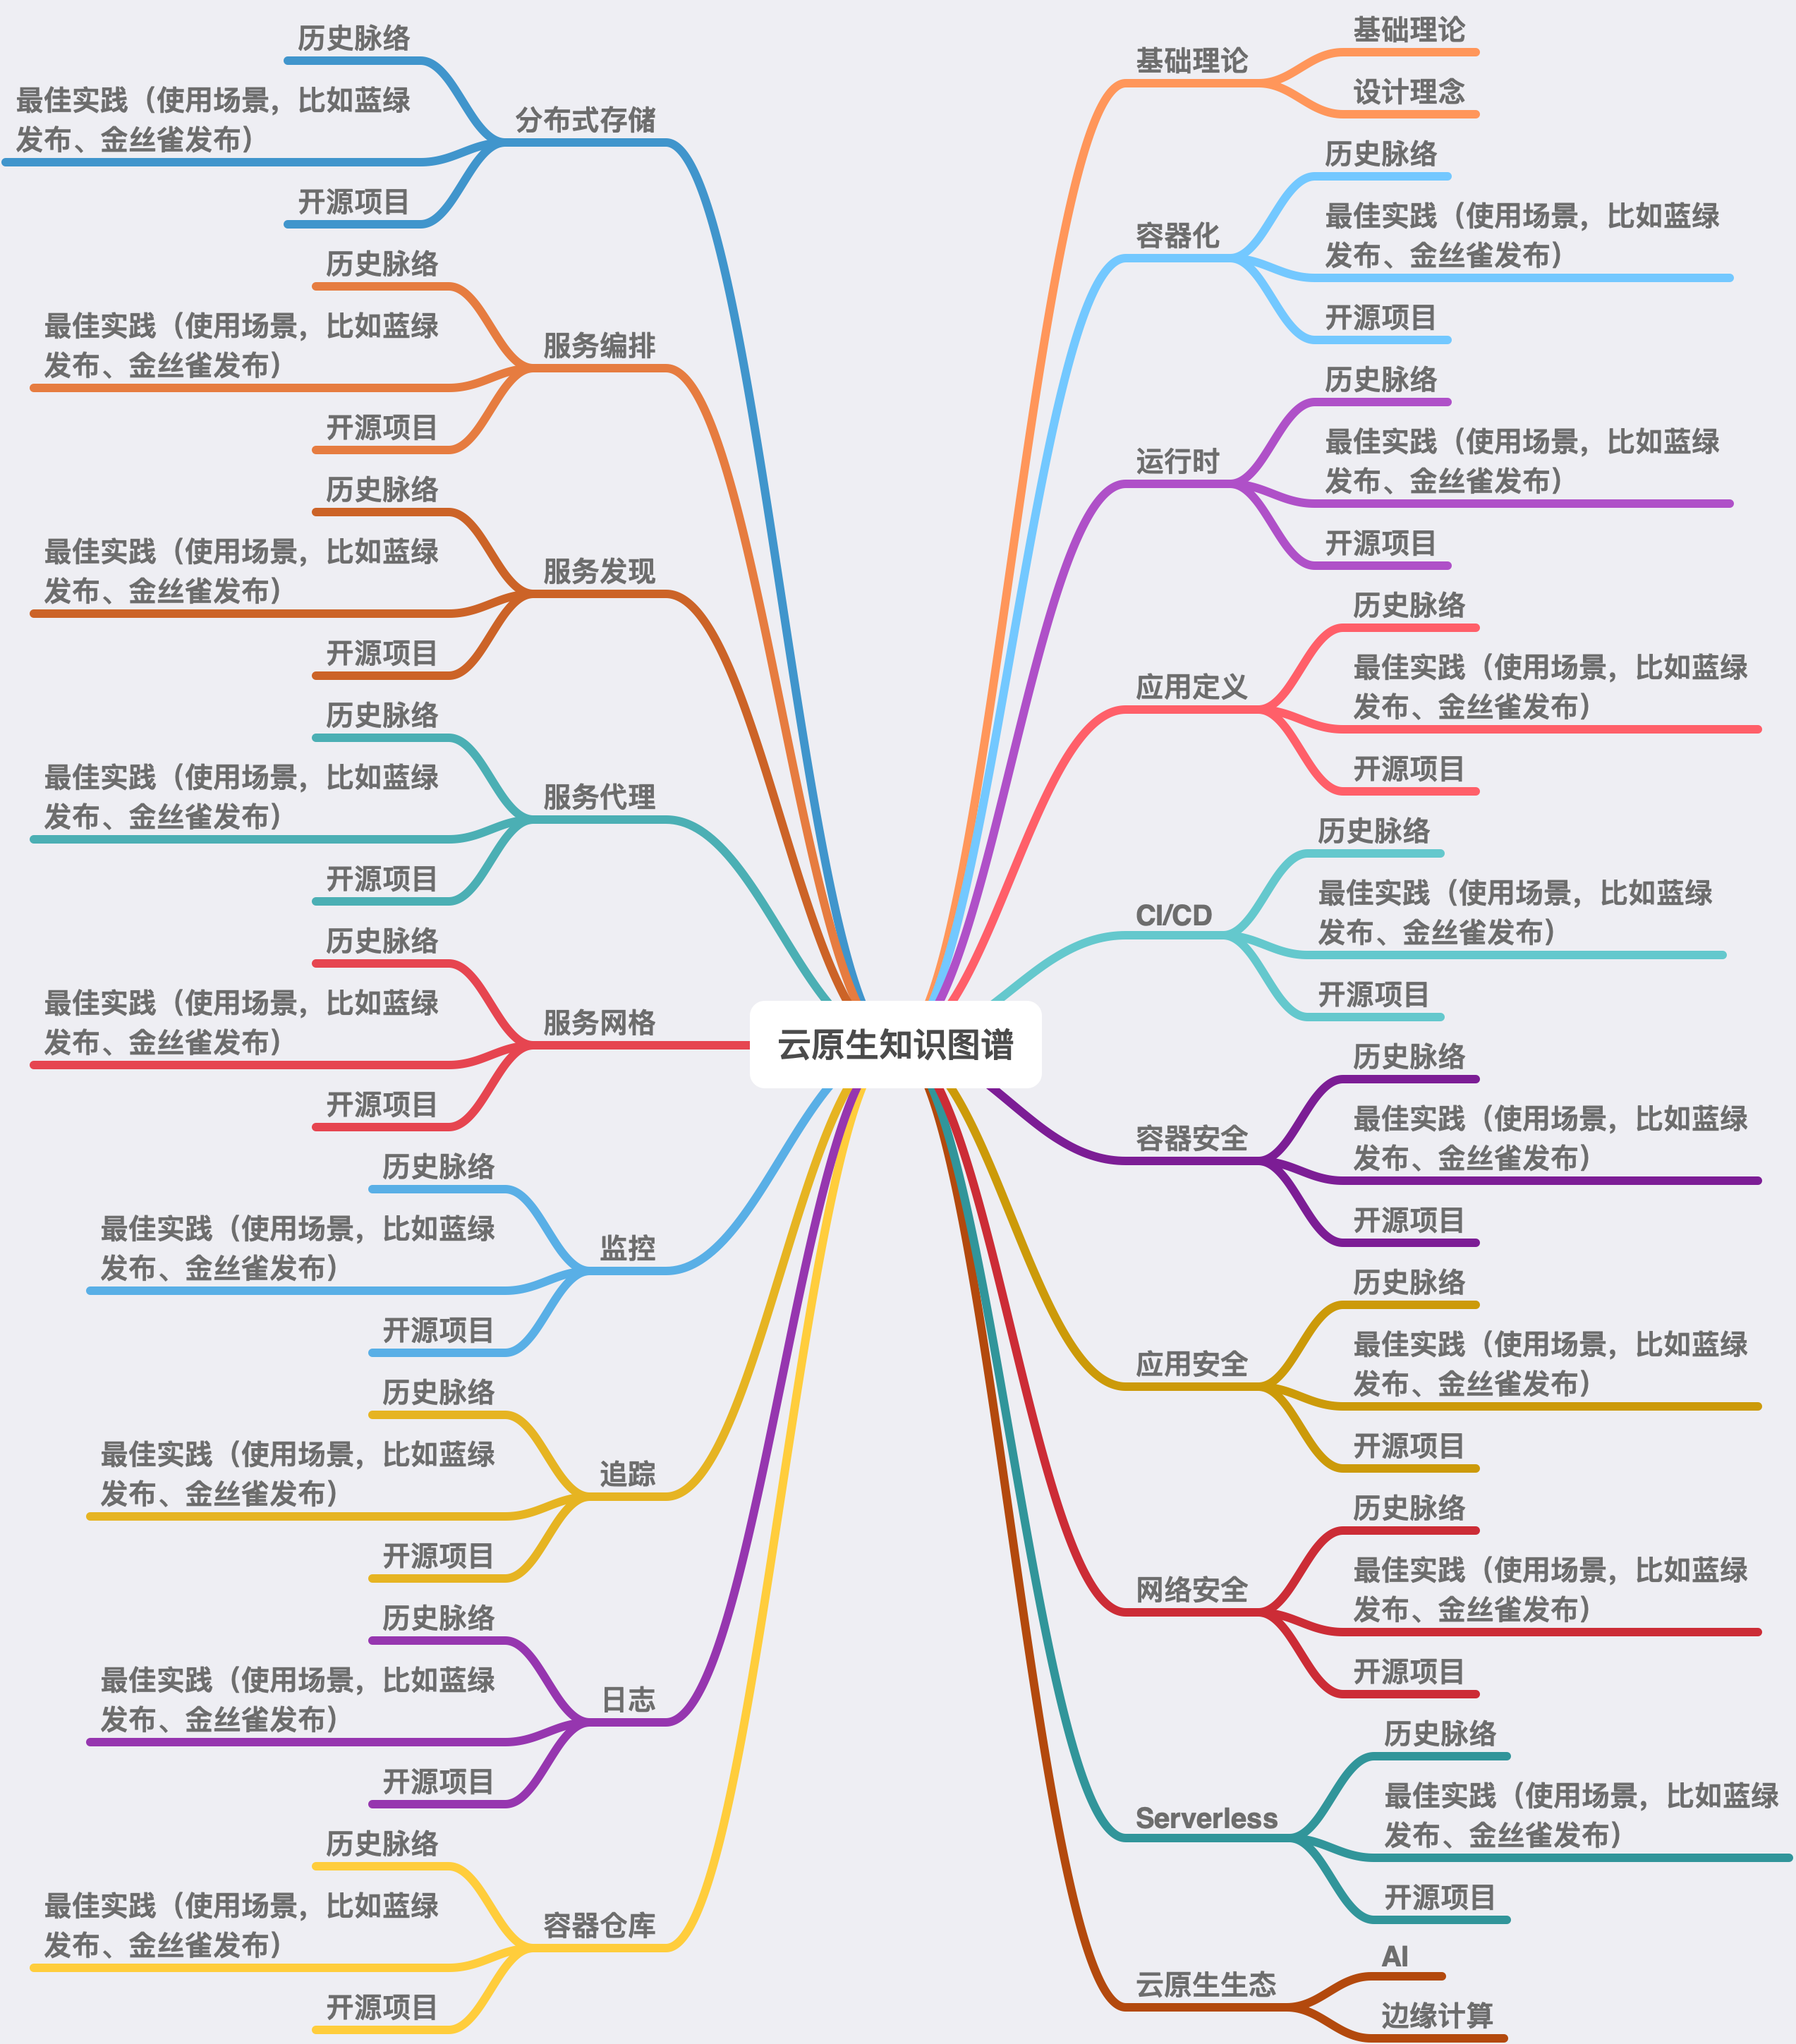
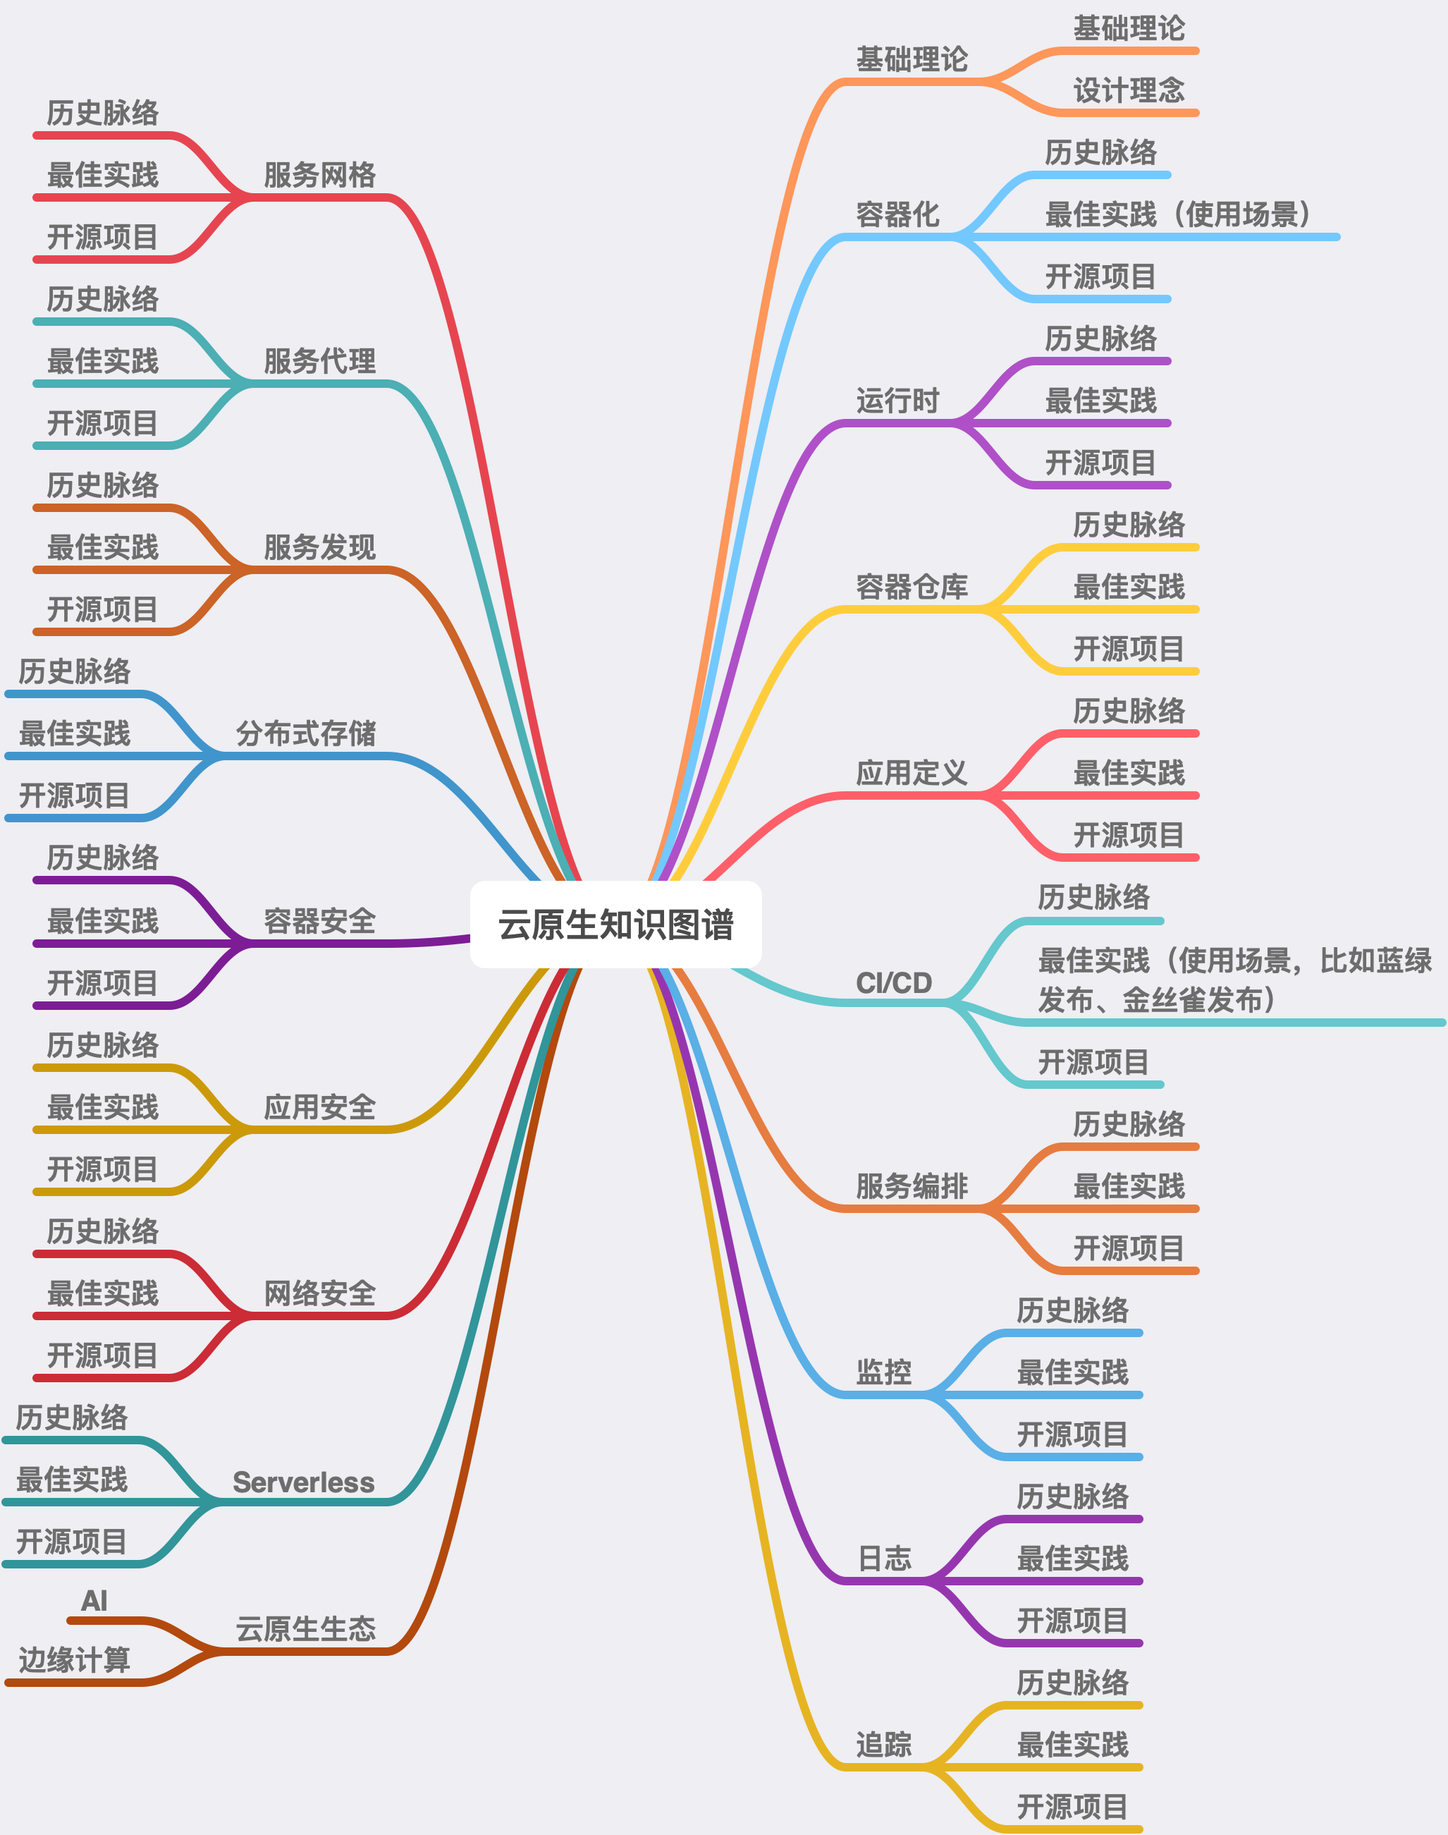
update

Changed region(s): [[0.0, 0.0, 0.9971, 1.0]]

diff --git a/knowledge-map.md b/knowledge-map.md
@@ -16,7 +16,7 @@
 ### **历史脉络**
 
 
-### **最佳实践（使用场景，比如蓝绿发布、金丝雀发布）**
+### **最佳实践（使用场景）**
 
 
 ### **开源项目**
